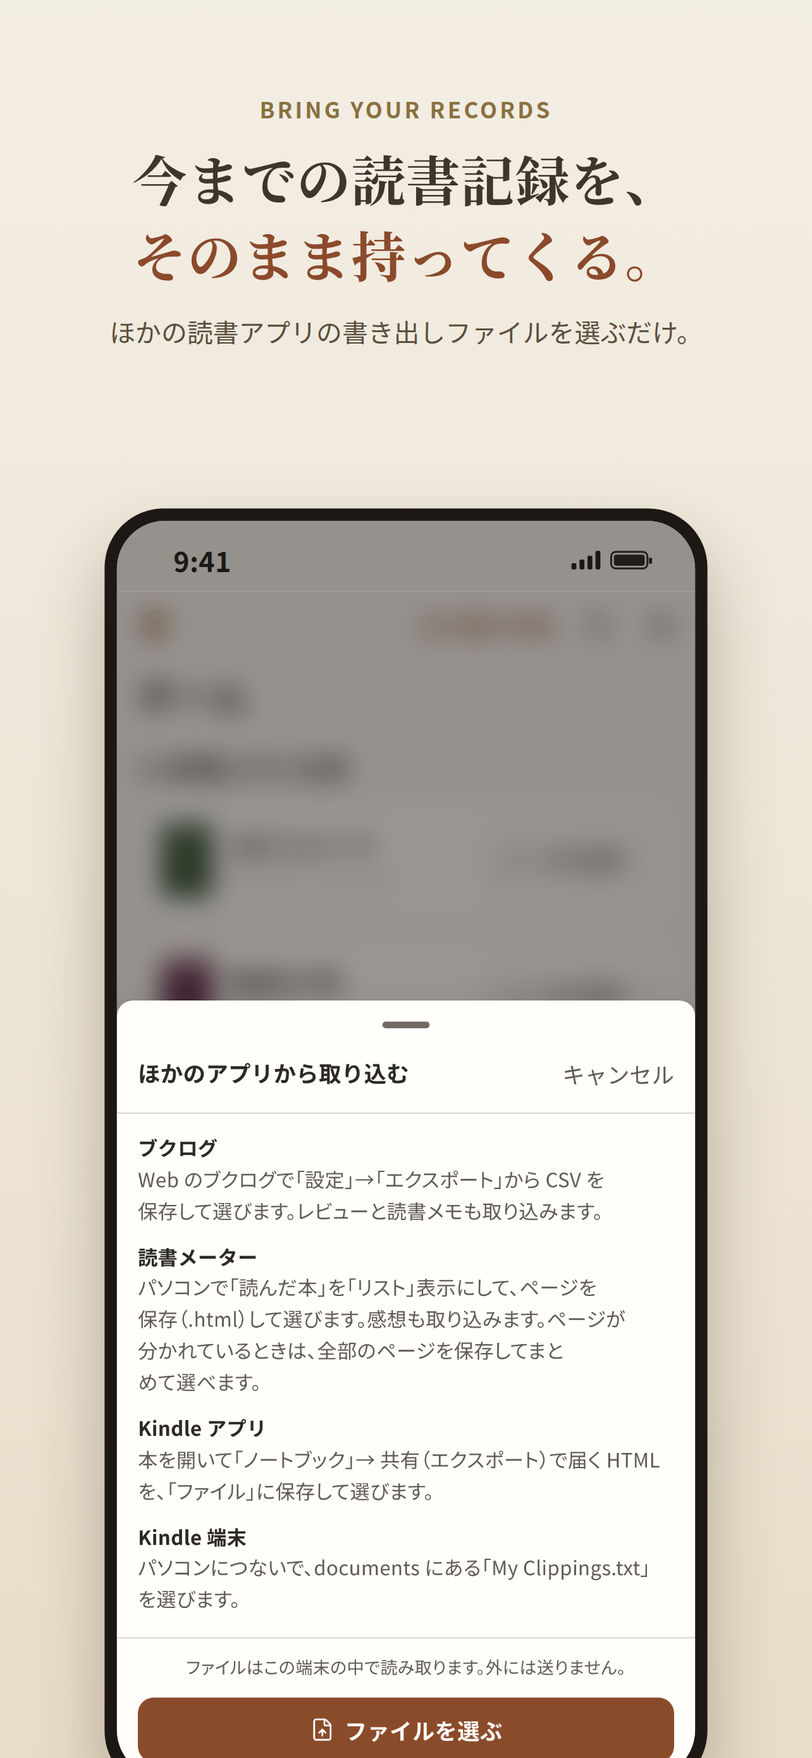
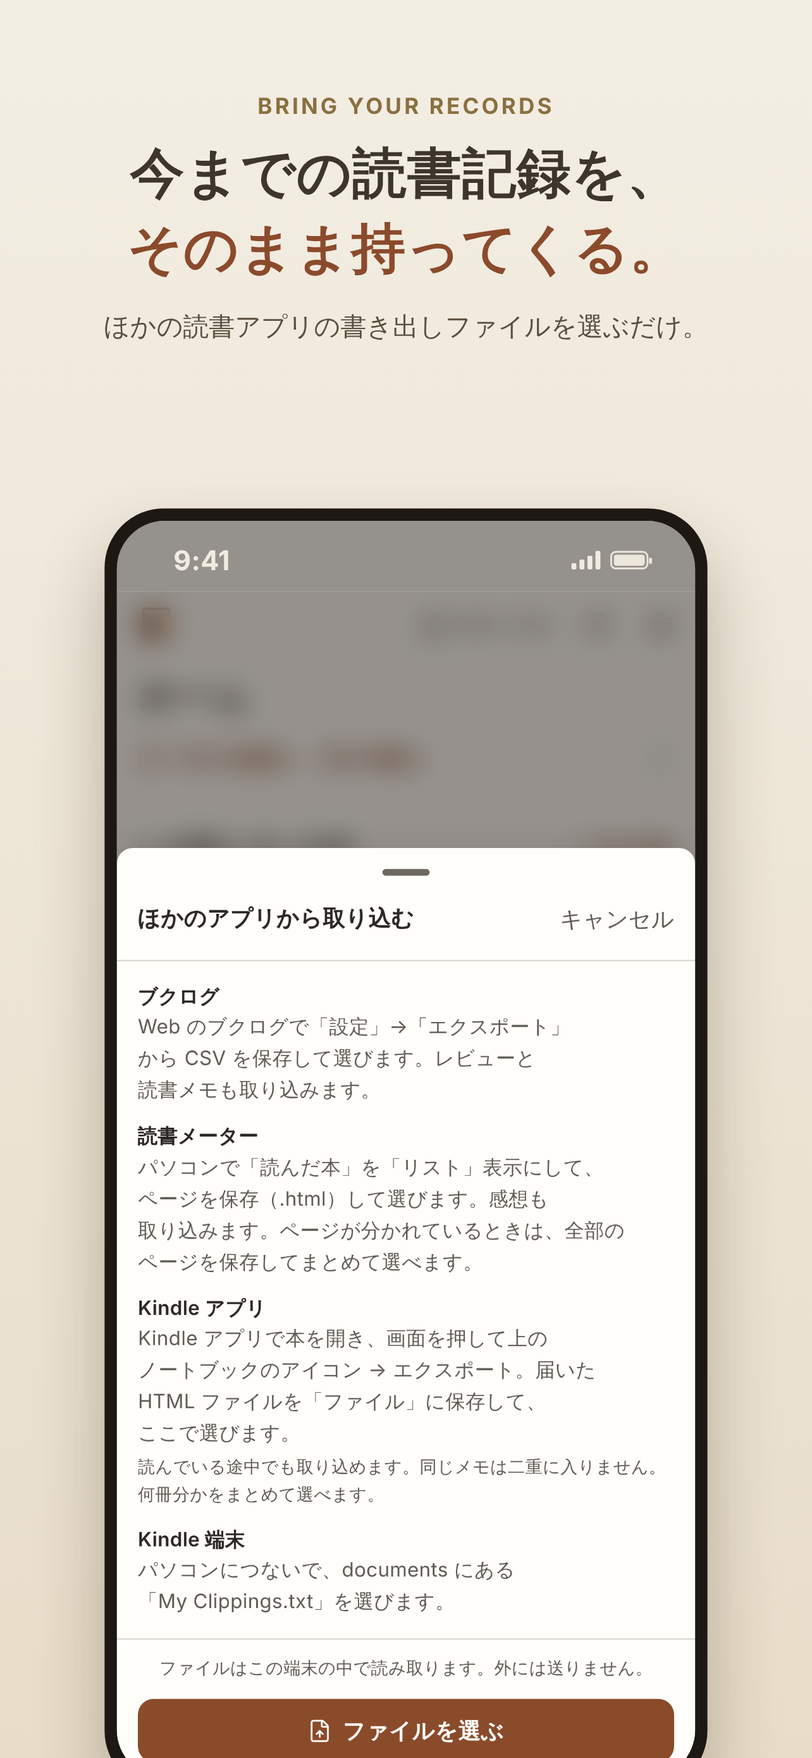
docs: App Store のスクリーンショットを §8 の 6 枚に作り直し（本の語り口・集中モード・雑誌・分野）
- company/appstore-screenshots/index.html: SETS を基本 6 枚（相談→根拠→一歩→集中モード→雑誌→分野）＋任意の 7・8 枚目＋ CPP ②（習慣）3 枚に。暗い地の枠（集中モード）と暗い地のステータスバー
- scripts/appstore-shots.mjs: voice / focus / focus-until / magazine / fields / readtime の撮り方を追加（お試しモードの入口 `&focus=` を使う・著者名は隠す）
- 古い base-4-import / base-5-photo / base-6-share を消し、base-7-import / base-8-photo / cpp-habit-1〜3 を追加
- aso-store-listing.md §8「いまの画像」・launch-2026-11/README.md を今の名前に
- CLAUDE.md: ios-prepare の行・UI ルール 2 に SegThumb と motion の定数・CSP の注記
- app-store-submission.md: apple-sign-in の警告の行

Claude-Session: https://claude.ai/code/session_01CJtCb5D8mXkG5XEeRMX4M7

diff --git a/company/appstore-screenshots/index.html b/company/appstore-screenshots/index.html
@@ -38,6 +38,17 @@
   .frame.bg-a{background:linear-gradient(180deg,#faf7f2 0%,#f1e9da 100%);}
   .frame.bg-b{background:linear-gradient(180deg,#efe7d8 0%,#e3d6bf 100%);}
   .frame.bg-c{background:linear-gradient(180deg,#f3eee4 0%,#e8ddc9 100%);}
+  /* 暗い地（集中モードの画面に合わせる・tokens.css の --focus-bg と同じ系統）。文字は明るい側に。 */
+  .frame.bg-dark{background:linear-gradient(180deg,#2a251f 0%,#1d1a16 100%);}
+  .frame.bg-dark .eyebrow{color:#cdb08c;}
+  .frame.bg-dark .headline{color:#e6ddcf;}
+  .frame.bg-dark .headline .em{color:#e0a07a;}
+  .frame.bg-dark .sub{color:#bdb7ae;}
+  .frame.bg-dark .device{background:#3a3430;box-shadow:0 60px 110px rgba(0,0,0,.45);}
+  /* 画面のいちばん上が暗いときは時計の行も明るい文字に（撮った画面の色で決める） */
+  .statusbar.dark{color:#f2ebe0;}
+  .statusbar.dark .sb-bars i,.statusbar.dark .sb-bat span,.statusbar.dark .sb-bat::after{background:#f2ebe0;}
+  .statusbar.dark .sb-bat{border-color:#f2ebe0;}
 
   .cap{padding:150px 100px 0;text-align:center;width:100%;}
   .eyebrow{font-family:var(--sans);font-size:36px;font-weight:700;letter-spacing:.12em;color:var(--accent);margin:0 0 26px;}
@@ -77,20 +88,36 @@
   //   実在の著者が話し手に見える画面を使わない（相談の画面は「2 冊の本と自分の学び」）。
   // shot は ui-shots/appstore-raw/<名前>.png（scripts/appstore-shots.mjs の SHOTS と同じ名前）。
   const SETS = {
-    // 基本の 6 枚: 相談 → 根拠 → 行動 → 取り込み → 撮る → 写真で共有
+    // 基本の 6 枚（2026-10-11 の作り直し・aso-store-listing §8＝5 つの柱の順）: 本の語り口 → 根拠 → 一歩 → 集中モード → 雑誌 → 分野
     base: [
-      { out:'base-1-consult', bg:'bg-c', shot:'answer', eyebrow:'ASK YOUR BOOKS',
-        head:'読んだ本が、<br><span class="em">あなたの相談相手になる。</span>', sub:'困ったことを書くと、あなたの読書メモから答えます。' },
+      { out:'base-1-consult', bg:'bg-c', shot:'voice', eyebrow:'TALK WITH YOUR BOOKS',
+        head:'読んだ本と、<br><span class="em">会話しよう。</span>', sub:'心に響いた一行から、AI が本の語り口で答えます。' },
       { out:'base-2-evidence', bg:'bg-a', shot:'sources', eyebrow:'FROM YOUR NOTES',
-        head:'答えの根拠は、<br><span class="em">あなたが残した一行。</span>', sub:'要約ではなく、あなたの読書メモから。本とページつき。' },
+        head:'答えには、<br><span class="em">本とページ。</span>', sub:'材料はあなたのメモ。無いときは無いと答えます。' },
       { out:'base-3-action', bg:'bg-b', shot:'action', eyebrow:'INTO ACTION',
-        head:'話しながら、<br><span class="em">明日の一歩を一つ。</span>', sub:'決めた行動は、期限と完了まで見届ける。' },
-      { out:'base-4-import', bg:'bg-c', shot:'import', eyebrow:'BRING YOUR RECORDS',
+        head:'会話の最後は、<br><span class="em">明日の一歩。</span>', sub:'行動リストに、期限つきで。' },
+      { out:'base-4-focus', bg:'bg-dark', shot:'focus', eyebrow:'FOCUS MODE',
+        head:'時間を決めて、<br><span class="em">本だけに。</span>', sub:'表紙と時間だけの画面で読む。読んだ時間は記録に。' },
+      { out:'base-5-share', bg:'bg-a', shot:'magazine', eyebrow:'SHARE A PAGE',
+        head:'心に残った一文を、<br><span class="em">1 枚に。</span>', sub:'雑誌の 1 ページのような画像で発信。' },
+      { out:'base-6-fields', bg:'bg-c', shot:'fields', eyebrow:'SEE YOUR READING',
+        head:'自分の読書を、<br><span class="em">分野で見る。</span>', sub:'まだ本がない分野も、ひと目で。' },
+    ],
+    // 7・8 枚目（任意・aso §8「取り込み・撮るは 7・8 枚目に回す」）
+    extra: [
+      { out:'base-7-import', bg:'bg-b', shot:'import', eyebrow:'BRING YOUR RECORDS',
         head:'これまでの読書記録も、<br><span class="em">今日から相談の材料に。</span>', sub:'ほかの読書アプリの書き出しファイルを選ぶだけ。' },
-      { out:'base-5-photo', bg:'bg-a', shot:'ocr-done', eyebrow:'SNAP A PAGE',
+      { out:'base-8-photo', bg:'bg-a', shot:'ocr-done', eyebrow:'SNAP A PAGE',
         head:'紙の本は、<br><span class="em">ページを撮るだけ。</span>', sub:'写真から書き起こして、読書メモに。' },
-      { out:'base-6-share', bg:'bg-b', shot:'share', eyebrow:'SHARE A PHOTO',
-        head:'読んだ本を、<br><span class="em">写真で共有。</span>', sub:'心に残った一文を、1 枚に重ねて。' },
+    ],
+    // カスタムプロダクトページ② 習慣にする（aso §8-2・4〜6 枚目は基本の 1・2・3 を使う）
+    'cpp-habit': [
+      { out:'cpp-habit-1', bg:'bg-dark', shot:'focus', eyebrow:'FOCUS MODE',
+        head:'時間を決めて、<br><span class="em">本だけに。</span>', sub:'表紙と時間だけの画面で読む。' },
+      { out:'cpp-habit-2', bg:'bg-c', shot:'focus-until', eyebrow:'UNTIL YOUR STOP',
+        head:'降りる駅まで、<br><span class="em">読む。</span>', sub:'時刻を決めて始める。終わったらそっと知らせます。' },
+      { out:'cpp-habit-3', bg:'bg-a', shot:'readtime', eyebrow:'TIME BY FIELD',
+        head:'どの分野に、<br><span class="em">どれだけ読んだか。</span>', sub:'週ごと・分野ごと・本ごとに、読んだ時間を記録に。' },
     ],
     // カスタムプロダクトページ①: ほかの読書アプリから乗り換える人
     'cpp-import': [
@@ -120,7 +147,7 @@
         head:'根拠の本とページが、<br><span class="em">いつも見える。</span>', sub:'関係するメモが無いときは、無いと答えます。' },
     ],
   };
-  const TITLES = { base:'基本の 6 枚', 'cpp-import':'カスタムプロダクトページ① 乗り換え', 'cpp-photo':'カスタムプロダクトページ② 紙の本を撮る', 'cpp-ask':'カスタムプロダクトページ③ 自分のメモに聞く' };
+  const TITLES = { base:'基本の 6 枚', extra:'7・8 枚目（任意）', 'cpp-habit':'カスタムプロダクトページ② 習慣にする', 'cpp-import':'カスタムプロダクトページ③ 乗り換え', 'cpp-photo':'カスタムプロダクトページ③ 紙の本を撮る', 'cpp-ask':'カスタムプロダクトページ① 自分のメモに聞く' };
 
   const qs = new URLSearchParams(location.search);
   const render = qs.get('render') === '1';
@@ -128,6 +155,8 @@
   const size = qs.get('size') === '65' ? { w:1284, h:2778 } : { w:1320, h:2868 };
   const shotsDir = qs.get('shots') || '../../ui-shots/appstore-raw/';
   const bars = window.__BARS || {};
+  // rgb(…) の明るさ（撮った画面のいちばん上の色が暗いか）
+  const isDarkColor = (c) => { const m = /rgba?\((\d+),\s*(\d+),\s*(\d+)/.exec(c || ''); if (!m) return false; return (0.299 * +m[1] + 0.587 * +m[2] + 0.114 * +m[3]) < 128; };
   const root = document.documentElement.style;
   root.setProperty('--w', size.w + 'px');
   root.setProperty('--h', size.h + 'px');
@@ -155,7 +184,7 @@
               </div>
               <div class="device">
                 <div class="screen">
-                  <div class="statusbar" style="background:${bars[s.shot] || '#f6f4f0'}">
+                  <div class="statusbar ${isDarkColor(bars[s.shot]) ? 'dark' : ''}" style="background:${bars[s.shot] || '#f6f4f0'}">
                     <span class="time">9:41</span>
                     <span class="right">
                       <span class="sb-bars"><i style="height:10px"></i><i style="height:16px"></i><i style="height:22px"></i><i style="height:30px"></i></span>

diff --git a/CLAUDE.md b/CLAUDE.md
@@ -66,7 +66,7 @@ UI 文言・トースト・ヘルプ・LP・プロンプト出力で使う名前
 1. **トークン必須・直書き禁止**：UI は必ず `src/styles/tokens.css` のトークン（`var(--…)`）を使う。**色（#hex・rgb）・文字サイズ・余白・角丸の数値を直書きしない**。JS から使うときは `src/styles/ui.js` の定数経由。
    - 既存コードには直書きが大量に残っている（色 約290・文字サイズ 約820・角丸 約250 か所）。**触ったファイルの直書きは、その変更のついでにトークンへ置き換える**（DESIGN.md §8 の順で段階移行）
    - 使ってよい値：余白 4/8/12/16/24/32/48/64、角丸 12 の 1 種類（円は例外）、文字 12 以上、太さ 400/600/700、色はニュートラル＋アクセント（栗色）1 色＋状態色 3 色
-2. **既存部品を先に使う**：新しい部品を作る前に、`src/styles/ui.js`（`btnPrimary` / `btnGhost` / `btnDanger` / `input` / `card`）、`components.css`（`.btn` `.card` など）、`EmptyState` / `ErrorMessage` / `SectionHeader` / `StatCard` / `Skeleton` / `BottomSheet` / `ContextMenu` を探して再利用する。無いときだけ作り、作ったら DESIGN.md §5 の表に追記する
+2. **既存部品を先に使う**：切り替えの「選んだ面・下線」は `SegThumb.jsx`（押した所へ滑る・DESIGN §5「滑る面」・2026-10-28）、畳む見出しは `<details>` のまま（開閉は `components.css` が伸び縮みさせる）、JS で待つ秒数は `lib/motion.js` の `DURATION_FAST_MS` / `DURATION_BASE_MS`（`tokens.css` と一致をテスト）。新しい部品を作る前に、`src/styles/ui.js`（`btnPrimary` / `btnGhost` / `btnDanger` / `input` / `card`）、`components.css`（`.btn` `.card` など）、`EmptyState` / `ErrorMessage` / `SectionHeader` / `StatCard` / `Skeleton` / `BottomSheet` / `ContextMenu` を探して再利用する。無いときだけ作り、作ったら DESIGN.md §5 の表に追記する
 3. **UI を変えたら、明暗両方のスクショで比較してから直す**
    1. 変更前に `npm run demo`（別ターミナル）→ `npm run ui:shots -- before <画面名…>` で撮る
    2. 変更後に `npm run ui:shots -- after <画面名…>` で撮る（`ui-shots/<ラベル>/<画面>-light.png` / `-dark.png`・git 管理外）
@@ -107,6 +107,7 @@ UI 文言・トースト・ヘルプ・LP・プロンプト出力で使う名前
 ├── public/                             # 静的アセット (manifest.json, icons/, sw.js)
 ├── scripts/generate-icons.js           # PWA アイコン生成 (`npm run icons`)
 ├── scripts/ui-shots.mjs                # 📸 主要画面の明暗スクショ（`npm run ui:shots -- <ラベル> [画面名…]`）
+├── scripts/ios-prepare.mjs             # 📱 `npm run ios:prepare`＝`npx cap add ios` のあとに Info.plist の説明文・暗号化の免除・ja・縦だけ・PrivacyInfo.xcprivacy（Xcode に登録）を冪等に入れる（`--check` で足りないものだけ・2026-10-29）
 ├── scripts/lp-shots.mjs                # 📸 LP に載せるアプリ画面の写真を撮り直す（`npm run demo` → `npm run lp:shots` → public/lp/*.webp・2026-10-11 からヒーローは 1 冊の本の語り口＝hero・対話の 4 コマ・行動・集中モード・分野・共有）
 ├── scripts/share-images.mjs            # 🖼 写真で共有の「共有される画像そのもの」を重ね方×形×地で書き出す（`npm run demo` → `node scripts/share-images.mjs` → ui-shots/share-after/images/）
 ├── scripts/marketing/                  # 🎬 SNS の縦動画を台本（scenarios.mjs）どおりお試しモードで録って字幕つき mp4 に（`npm run demo` → `npm run mkt:record`）・週の投稿の下書き（`npm run mkt:drafts`・鍵が無ければプロンプトだけ）→ marketing-out/（git 管理外）。手順は docs/ai-marketing-automation.md
@@ -373,7 +374,7 @@ want(読みたい) → before(積読) → reading(読書中) → done(読了)
 - `X-Frame-Options: DENY`、`X-Content-Type-Options: nosniff`、`Referrer-Policy: strict-origin-when-cross-origin`
 - `Permissions-Policy: camera=(self), microphone=(), geolocation=()`
 - `Strict-Transport-Security: max-age=31536000; includeSubDomains`
-- `Content-Security-Policy`: `default-src 'self'` ベースでホワイトリスト制（Supabase / Anthropic / Google Books / openBD / NDL / Amazon 画像（images-na・images-fe・m.media-amazon）/ 楽天ブックス画像(`thumbnail.image.rakuten.co.jp`, img-src のみ) / Open Library の表紙の転送先 `*.archive.org`（img-src のみ・2026-09-30）を許可。表紙の配信元を足したら `img-src` と `api/_coverImageUrl.js` の許可リストの両方に。楽天 API 本体はサーバー(`api/cover.js` の表紙リゾルバ)経由なので connect-src 不要）。**iOS アプリ**はヘッダーが付かないので、ビルドのときに同じ CSP を `<meta http-equiv>` で index.html に入れる（`vite.config.js` の `cspMeta`＝`scripts/cspMeta.mjs`・connect-src と img-src に `VITE_SITE_URL` の絶対 URL を足し・meta で効かない frame-ancestors は外す・開発中とお試しモードには入れない・2026-10-11）。vercel.json の CSP を変えれば両方に効く
+- `Content-Security-Policy`: `default-src 'self'` ベースでホワイトリスト制（Supabase は自分のホスト `https://tkrinnopfssdibgxuqzl.supabase.co` だけ＝2026-10-29・プロジェクトを作り直したら `vercel.json` の connect-src と img-src の 2 か所を直す / Anthropic / Google Books / openBD / NDL / Amazon 画像（images-na・images-fe・m.media-amazon）/ 楽天ブックス画像(`thumbnail.image.rakuten.co.jp`, img-src のみ) / Open Library の表紙の転送先 `*.archive.org`（img-src のみ・2026-09-30）を許可。表紙の配信元を足したら `img-src` と `api/_coverImageUrl.js` の許可リストの両方に。楽天 API 本体はサーバー(`api/cover.js` の表紙リゾルバ)経由なので connect-src 不要）。**iOS アプリ**はヘッダーが付かないので、ビルドのときに同じ CSP を `<meta http-equiv>` で index.html に入れる（`vite.config.js` の `cspMeta`＝`scripts/cspMeta.mjs`・connect-src と img-src に `VITE_SITE_URL` の絶対 URL を足し・meta で効かない frame-ancestors は外す・開発中とお試しモードには入れない・2026-10-11）。vercel.json の CSP を変えれば両方に効く
 
 ### AI に送る前の同意（App Review 5.1.2(i)・2026-10-01）
 

diff --git a/company/aso-store-listing.md b/company/aso-store-listing.md
@@ -62,14 +62,14 @@
 
 | # | 見せる画面（お試しモードで撮る） | 見出し／小さな文字 | いまの画像 |
 |---|---|---|---|
-| 1 | 1 冊に相談した答え（名前の行「（本の語り口で・AI）」が見える）。読了の『イシューからはじめよ』→「この本に相談する」 | **読んだ本と、会話しよう。**／心に響いた一行から、AI が本の語り口で答えます。 | **新しく撮る**（いまの `base-1-consult` は「すべての本」の答え。撮るまでは見出しだけ差し替えて使う） |
+| 1 | 1 冊に相談した答え（名前の行「（本の語り口で・AI）」が見える）。読了の『イシューからはじめよ』→「この本に相談する」 | **読んだ本と、会話しよう。**／心に響いた一行から、AI が本の語り口で答えます。 | `base-1-consult`（2026-10-29 に撮り直した・『嫌われる勇気』の語り口・著者名は隠す）（前の値: **新しく撮る**（いまの `base-1-consult` は「すべての本」の答え。撮るまでは見出しだけ差し替えて使う） |
 | 2 | 根拠を見る（本とページのメモ） | **答えには、本とページ。**／材料はあなたのメモ。無いときは無いと答えます。 | `base-2-evidence` |
 | 3 | 「ここで答えと行動を」→ 明日の一歩＋「行動に追加」 | **会話の最後は、明日の一歩。**／行動リストに、期限つきで。 | `base-3-action` |
-| 4 | 集中モード（`/?focus=timer`・暗い地） | **時間を決めて、本だけに。**／表紙と時間だけの画面で読む。読んだ時間は記録に。 | **新しく撮る** |
-| 5 | 写真で共有の「雑誌」 | **心に残った一文を、1 枚に。**／雑誌の 1 ページのような画像で発信。 | `base-6-share`（雑誌で撮り直す） |
-| 6 | 振り返り › 記録の「分野」（まだ本がない分野のチップが見える） | **自分の読書を、分野で見る。**／まだ本がない分野も、ひと目で。 | **新しく撮る** |
+| 4 | 集中モード（`/?focus=timer`・暗い地） | **時間を決めて、本だけに。**／表紙と時間だけの画面で読む。読んだ時間は記録に。 | `base-4-focus`（2026-10-29） |
+| 5 | 写真で共有の「雑誌」 | **心に残った一文を、1 枚に。**／雑誌の 1 ページのような画像で発信。 | `base-5-share`（2026-10-29 に雑誌で撮り直した） |
+| 6 | 振り返り › 記録の「分野」（まだ本がない分野のチップが見える） | **自分の読書を、分野で見る。**／まだ本がない分野も、ひと目で。 | `base-6-fields`（2026-10-29） |
 
-- 取り込み（`base-4-import`）・撮る（`base-5-photo`）は CPP ③ と 7・8 枚目（任意）に回す。
+- 取り込み・撮るは CPP ③ と 7・8 枚目（任意）＝`base-7-import`・`base-8-photo`（2026-10-29）。
 - 作り直し：生成器 `company/appstore-screenshots/index.html` の `SETS.base` の見出しを上の表に差し替え、`company/launch-2026-11/README.md` の「作り直し方」で書き出す（担当 Claude・`calendar.md` の 10/19 の週）。
 - **価格はスクショに入れない**（創業メンバー価格の期間は年額に 7 日間無料が付かないので誤解を招く・審査 2.3.7）。
 - 1 枚目の本の語り口の画面は、書名が見えても著者の名前は見出しに入れない。答えの最後の「AI が…まねた答えです」が入る範囲で切れないときは、名前の行「（本の語り口で・AI）」が必ず入るように切る。
@@ -85,7 +85,7 @@
 | **② 習慣にする** | 1 集中モード「時間を決めて、本だけに。」／2 始める前のシート（時刻まで）「降りる駅まで、読む。」／3 記録の「読書の時間」「どの分野に、どれだけ読んだか。」→ 4〜6 は基本の 1・2・3 | 習慣化・読書時間・積読・読了 | `ig_focus`・`note_habit` |
 | **③ 乗り換え・撮る** | `cpp-import-1`・`cpp-photo-1`・基本の 1（見出しを「メモがゼロでも、今日から本と会話。」に）→ 4〜6 は基本の 2・3・5 | 本棚・ハイライト・付箋・書き起こし | `note_import`・`x_month`・`x_year`・`share` |
 
-- ②の 2・3 枚目は新しく撮る（`/?focus=until`・振り返り › 記録 › 読書の時間）。
+- ②の 3 枚は `cpp-habit-1〜3`（2026-10-29 に撮った・`/?focus=timer`・`/?focus=until`・振り返り › 記録 › 読書の時間）。4〜6 枚目は基本の 1・2・3 をそのまま使う。
 - ③のプロモーションテキストの他社のアプリ名は「互換の説明」。審査で指摘されたら「ほかの読書アプリ」に替える。画像の見出しには他社名を入れない。
 - 「ChatGPT ではなく」とはどのページにも書かない。
 - 判断：ページごとの「ページの表示 → 入手」を 2 週間ごとに比べ、30% を下回るページは 1 枚目の見出しを替える。**2 か月（1/11）で入口別の有料になる率（RevenueCat）を比べ、勝った柱を基本のページの 1 枚目に寄せる**（master-plan §6）。

diff --git a/company/app-store-submission.md b/company/app-store-submission.md
@@ -11,6 +11,7 @@
 |---|---|---|
 | Mac の道具 | 指定なし | **Xcode 26 以降（iOS 26 の SDK）でないと App Store Connect に上げられない**（Apple の決まり・2026-04-28 から）。Capacitor 8 も Xcode 26 が要る |
 | iOS のプロジェクト | `npx cap sync ios` から | リポジトリに `ios/` がまだ無い。**最初の 1 回だけ `npx cap add ios`**（§5） |
+| Apple でサインインの部品 | 指定なし | `@capacitor-community/apple-sign-in` は 7.1.0 が最新で、`npx cap add ios` に「Capacitor 7 向け」の黄色い warn が出る（2026-10-29 時点・8 向けはまだ無い）。そのまま使える見込みだが、**iPhone で最初に動かすときに「Apple でサインイン」を 1 回試す**。ビルドで止まったら、その画面を送る（最悪はメールのログインだけで出し、1.0.1 で戻す） |
 | 通知の部品 | `npm i @capacitor/push-notifications` | **もう package.json に入っている**。`npm install` だけでよい（§12） |
 | App 名 | Orime | **`Orime - 読んだ本と会話する読書メモ`**（2026-10-11 オーナー決定・`company/app-store-listing.md`）。ホーム画面の名前は Orime のまま |
 | サブスクのグループ名 | Orime Premium | **Orime プラン**（`docs/iap-setup-runbook.md` C） |

diff --git a/company/launch-2026-11/README.md b/company/launch-2026-11/README.md
@@ -33,7 +33,7 @@
 
 ## App Store の画像（`screenshots/`）
 
-- 見出しと並びの正は `../aso-store-listing.md` §8（6 枚＝5 つの柱の順）・§8-2（CPP ①本と会話する ②習慣にする ③乗り換え・撮る）。いまの `screenshots/` の画像は 10-08 の見出しのまま。**新しい 3 枚（本の語り口の答え・集中モード・分野）と CPP ② の 2 枚を撮って、見出しを差し替えて書き出し直す**（Claude・10/12 の週）。
+- 見出しと並びの正は `../aso-store-listing.md` §8（6 枚＝5 つの柱の順）・§8-2（CPP ①本と会話する ②習慣にする ③乗り換え・撮る）。**2026-10-29 に作り直した**: `screenshots/` の `base-1〜6` が §8 の 6 枚（本の語り口・根拠・一歩・集中モード・雑誌・分野）、`base-7-import`・`base-8-photo` が任意の 7・8 枚目、`cpp-habit-1〜3` が CPP ②（4〜6 枚目は base-1〜3 を使う）、`cpp-import-*`・`cpp-photo-*`・`cpp-ask-*` は CPP ③①。見出しは `appstore-screenshots/index.html` の `SETS`。
 - ファイル名：`<名前>-6.9in-1320x2868.png`・`<名前>-6.5in-1284x2778.png`。価格はどの画像にも入れない。
 
 ### 作り直し方（画面を変えたら）
